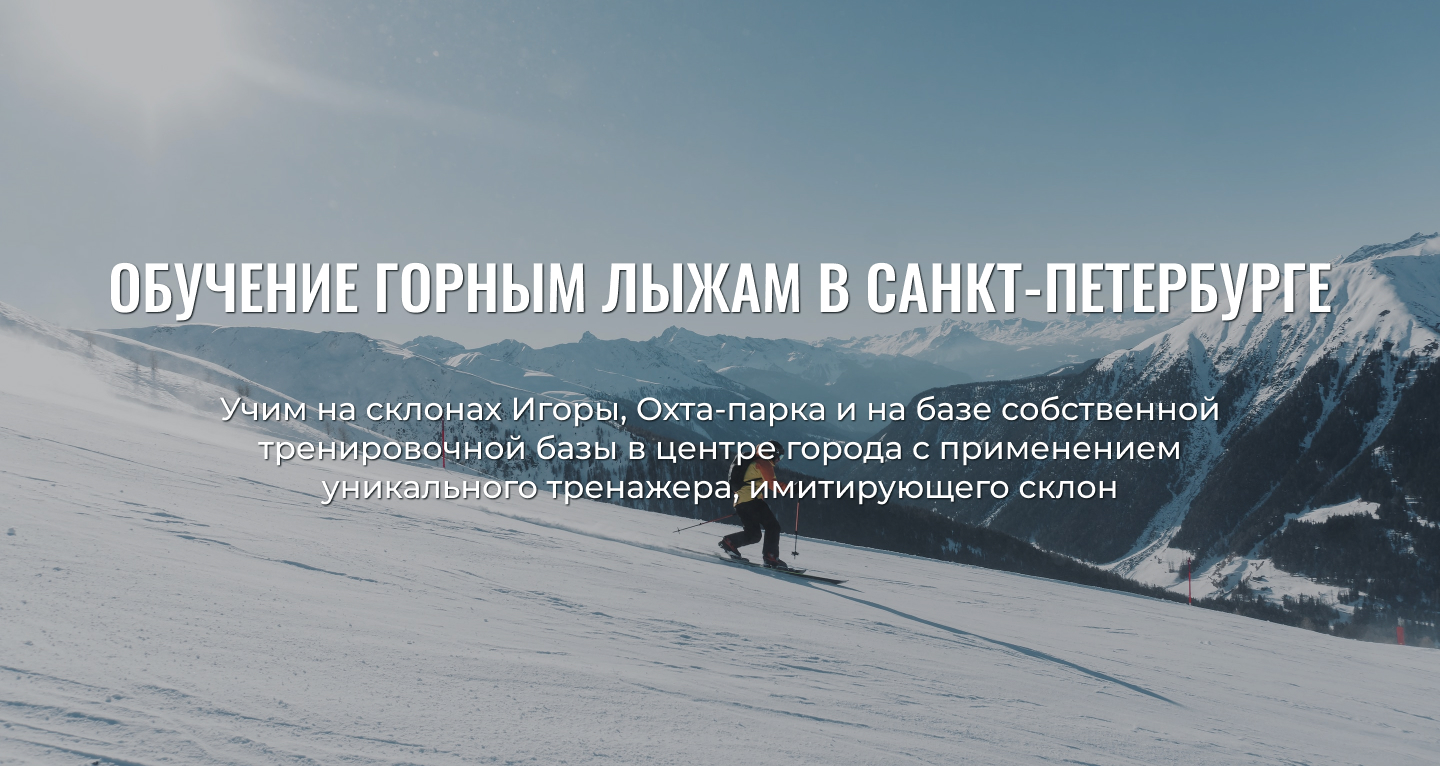
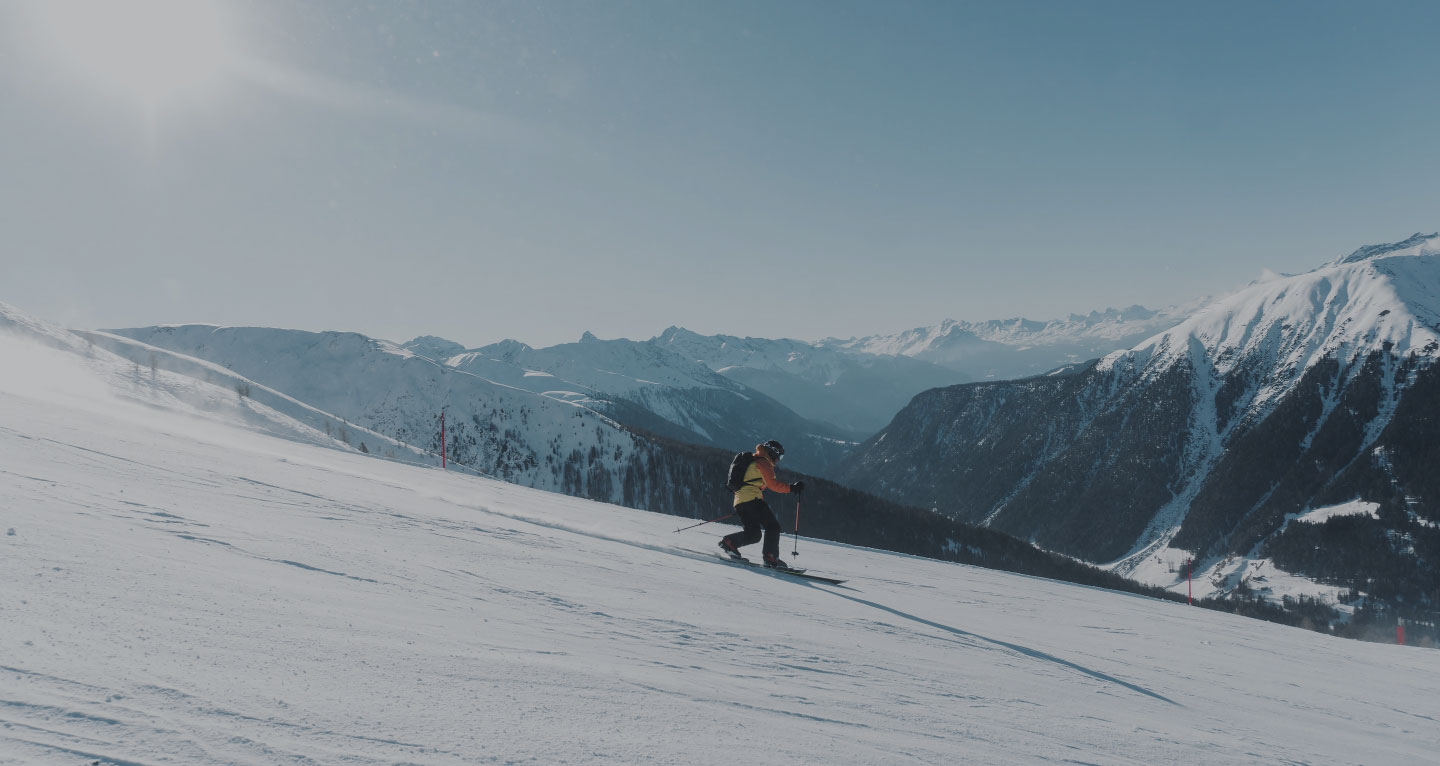
edit css, edit html

Changed region(s): [[0.0625, 0.3303, 0.9375, 0.4204], [0.1562, 0.5104, 0.8438, 0.6005], [0.2188, 0.6305, 0.7812, 0.6606]]

diff --git a/index.html b/index.html
@@ -10,6 +10,7 @@
 </head>
 
 <body>
+  
   <!-- header -->
   <header class="header">
     <div class="container">
@@ -36,35 +37,56 @@
     </section>
 
     <section class="desc">
-      <div class="container">
+      <div class="container container-desc">
+
         <h2 class="desc-title">Учиться с нами увлекательно и эффективно</h2>
-        <p class="desc-text">Мы профи</p>
-        <p class="desc-subtext">Наши инструктора - мастера спорта, призеры российских и международных стартов.</p>
-        <p class="desc-text">2000+</p>
-        <p class="desc-subtext">Довольных райдеров рассекает на заснеженных склонах. И это наша заслуга :)</p>
-        <p class="desc-text">Учим 365 дней в году</p>
-        <p class="desc-subtext">У нас есть крутой тренажер, имитирующий реальный склон площадью 50м. кв</p>
-        <p class="desc-text">20+</p>
-        <p class="desc-subtext">Наград завоевали наши ученики на регионалных и международных соревнованиях</p>
-        <p class="desc-text">ПОдари лыжу</p>
-        <p class="desc-subtext">Наш благотворительный проект - помогаем сиротам приобщиться к спорту и наладить жизнь
-        </p>
-        <p class="desc-text">Закрытый клуб</p>
-        <p class="desc-subtext">Наши студенты попадают на закрытые мастер-классы и вечеринки</p>
+        <div class="wrap-desc">
+          <div class="desc-item">
+            <p class="desc-text">Мы профи</p>
+            <p class="desc-subtext">Наши инструктора - мастера спорта, призеры российских и международных стартов.</p>
+          </div>
+          <div class="desc-item">
+            <p class="desc-text">2000+</p>
+            <p class="desc-subtext">Довольных райдеров рассекает на заснеженных склонах. И это наша заслуга :)</p>
+          </div>
+          <div class="desc-item">
+            <p class="desc-text">Учим 365 дней в году</p>
+            <p class="desc-subtext">У нас есть крутой тренажер, имитирующий реальный склон площадью 50м. кв</p>
+          </div>
+          <div class="desc-item">
+            <p class="desc-text">20+</p>
+            <p class="desc-subtext">Наград завоевали наши ученики на регионалных и международных соревнованиях</p>
+          </div>
+          <div class="desc-item">
+            <p class="desc-text">ПОдари лыжу</p>
+            <p class="desc-subtext">Наш благотворительный проект - помогаем сиротам приобщиться к спорту и наладить
+              жизнь
+            </p>
+          </div>
+          <div class="desc-item">
+            <p class="desc-text">Закрытый клуб</p>
+            <p class="desc-subtext">Наши студенты попадают на закрытые мастер-классы и вечеринки</p>
+          </div>
+        </div>
       </div>
     </section>
 
     <section class="promo">
       <div class="container">
-        <h2 class="promo-title">гоу! покорять склоны вместе</h2>
-        <button class="btn">Начать учиться</button>
-        <img class="promo-item" src="images/photo-lead.jpg" alt="">
-        <img class="promo-item" src="images/photo-lead2.jpg" alt="">
-        <img class="promo-item" src="images/photo-lead3.jpg" alt="">
-        <img class="promo-item" src="images/photo-lead4.jpg" alt="">
+        <div class="wrap-promo">
+          <h2 class="promo-title">гоу! покорять склоны вместе</h2>
+          <button class="promo-btn">Начать учиться</button>
+          <div class="promo-items">
+            <img class="promo-item" src="images/photo-lead.jpg" alt="">
+            <img class="promo-item" src="images/photo-lead2.jpg" alt="">
+            <img class="promo-item" src="images/photo-lead3.jpg" alt="">
+            <img class="promo-item" src="images/photo-lead4.jpg" alt="">
+          </div>
+        </div>
       </div>
     </section>
   </main>
+
   <!-- footer -->
   <footer class="footer">
     <div class="container">
@@ -80,7 +102,6 @@
       </div>
     </div>
   </footer>
-
 </body>
 
 </html>

diff --git a/styles/style.css b/styles/style.css
@@ -40,10 +40,28 @@
   margin: 0 auto;
 }
 
+.container-promo {
+  max-width: 1278px;
+  margin: 0 auto;
+}
+
 .wrap {
   display: flex;
   justify-content: space-between;
   align-items: center;
+}
+
+.wrap-desc {
+  display: flex;
+  flex-wrap: wrap;
+  justify-content: space-between;
+}
+
+.desc-item {
+  white-space: normal;
+  display: inline-block;
+  width: 30%;
+  vertical-align: top;
 }
 
 .footer-wrap {
@@ -61,7 +79,7 @@
 /* body */
 body {
   background: #E5E5E5;
-  margin: 0;
+  margin: 0 auto;
 }
 
 
@@ -76,9 +94,26 @@ body {
   font-weight: 500;
   font-size: 24px;
   line-height: 29px;
+
+  padding: 8px 41px;
+
+  border: none;
+  border-radius: 4px;
+  background: #FFFFFF;
+
+  cursor: pointer;
+
+  transition: all .15s linear;
 }
 
-.header-logo {}
+.btn:hover {
+  background: #ffffff81;
+  color: #fff;
+}
+
+.header-logo {
+
+}
 
 .logo-img {
   padding-top: 31px;
@@ -108,9 +143,11 @@ body {
   justify-content: center;
   align-items: center;
 
-  padding: ;
-
   background: linear-gradient(0deg, rgba(6, 13, 16, 0.25), rgba(6, 13, 16, 0.25));
+  background-image: url(../images/promo.jpg);
+  background-size: cover;
+  background-repeat: no-repeat;
+  background-attachment: fixed;
 }
 
 .wrapper {
@@ -146,15 +183,8 @@ body {
 .desc {
   color: #060D10;
 
-}
-
-.desc::after {
-  content: '';
-  display: block;
-  width: 100%;
-  height: 2px;
-  background: #060D10;
-  opacity: 0.5;
+  background: #f0fbff;
+  mix-blend-mode: normal;
 }
 
 .desc-title {
@@ -163,7 +193,13 @@ body {
   font-size: 48px;
   line-height: 167%;
 
+  margin: 0;
+
   text-transform: uppercase;
+  text-align: center;
+
+  padding-top: 170px;
+  padding-bottom: 100px;
 }
 
 .desc-text {
@@ -173,6 +209,8 @@ body {
   line-height: 167%;
 
   text-transform: uppercase;
+
+  margin: 0;
 }
 
 .desc-subtext {
@@ -181,10 +219,35 @@ body {
   font-size: 26px;
 
   line-height: 140%;
+
+  margin-top: 25px;
+  margin-bottom: 70px;
+}
+
+.container-desc::after {
+  content: '';
+  display: block;
+  width: 100%;
+  height: 1px;
+  background: rgba(6, 13, 16, 1);
+  opacity: 0.5;
+
+  margin-top: 100px;
 }
 
 .promo {
   color: #060D10;
+
+  background: linear-gradient(202deg, #f0fbff 43.85%, #ffffff 43.86%);
+  mix-blend-mode: normal;
+}
+
+.wrap-promo {
+  margin: 0;
+  padding: 0;
+
+  text-align: center;
+  padding: 170px 81px 180px 81px;
 }
 
 .promo-title {
@@ -193,9 +256,47 @@ body {
   font-size: 48px;
 
   text-transform: uppercase;
+  text-align: center;
+
+  margin: 0;
 }
 
-.promo-item {}
+.promo-btn {
+  display: block;
+
+  font-family: 'Montserrat';
+  font-weight: 500;
+  font-size: 36px;
+  line-height: 44px;
+
+  padding: 21px 108px;
+
+  border: 3px solid #060D10;
+  border-radius: 4px;
+  background: none;
+
+  cursor: pointer;
+
+  margin: 60px auto;
+}
+
+.promo-btn:hover {
+  background: rgba(44, 44, 44, 0.051);
+}
+
+.promo-items {
+  display: flex;
+  justify-content: center;
+  /* flex-wrap: wrap; */
+
+  column-gap: 30px;
+
+  margin-top: 130px;
+}
+
+.promo-item {
+  display: inline-block;
+}
 
 
 /* footer */
@@ -221,9 +322,7 @@ body {
   margin-left: -620px;
 }
 
-.social-item {
-
-}
+.social-item {}
 
 .social-icon {}
 
